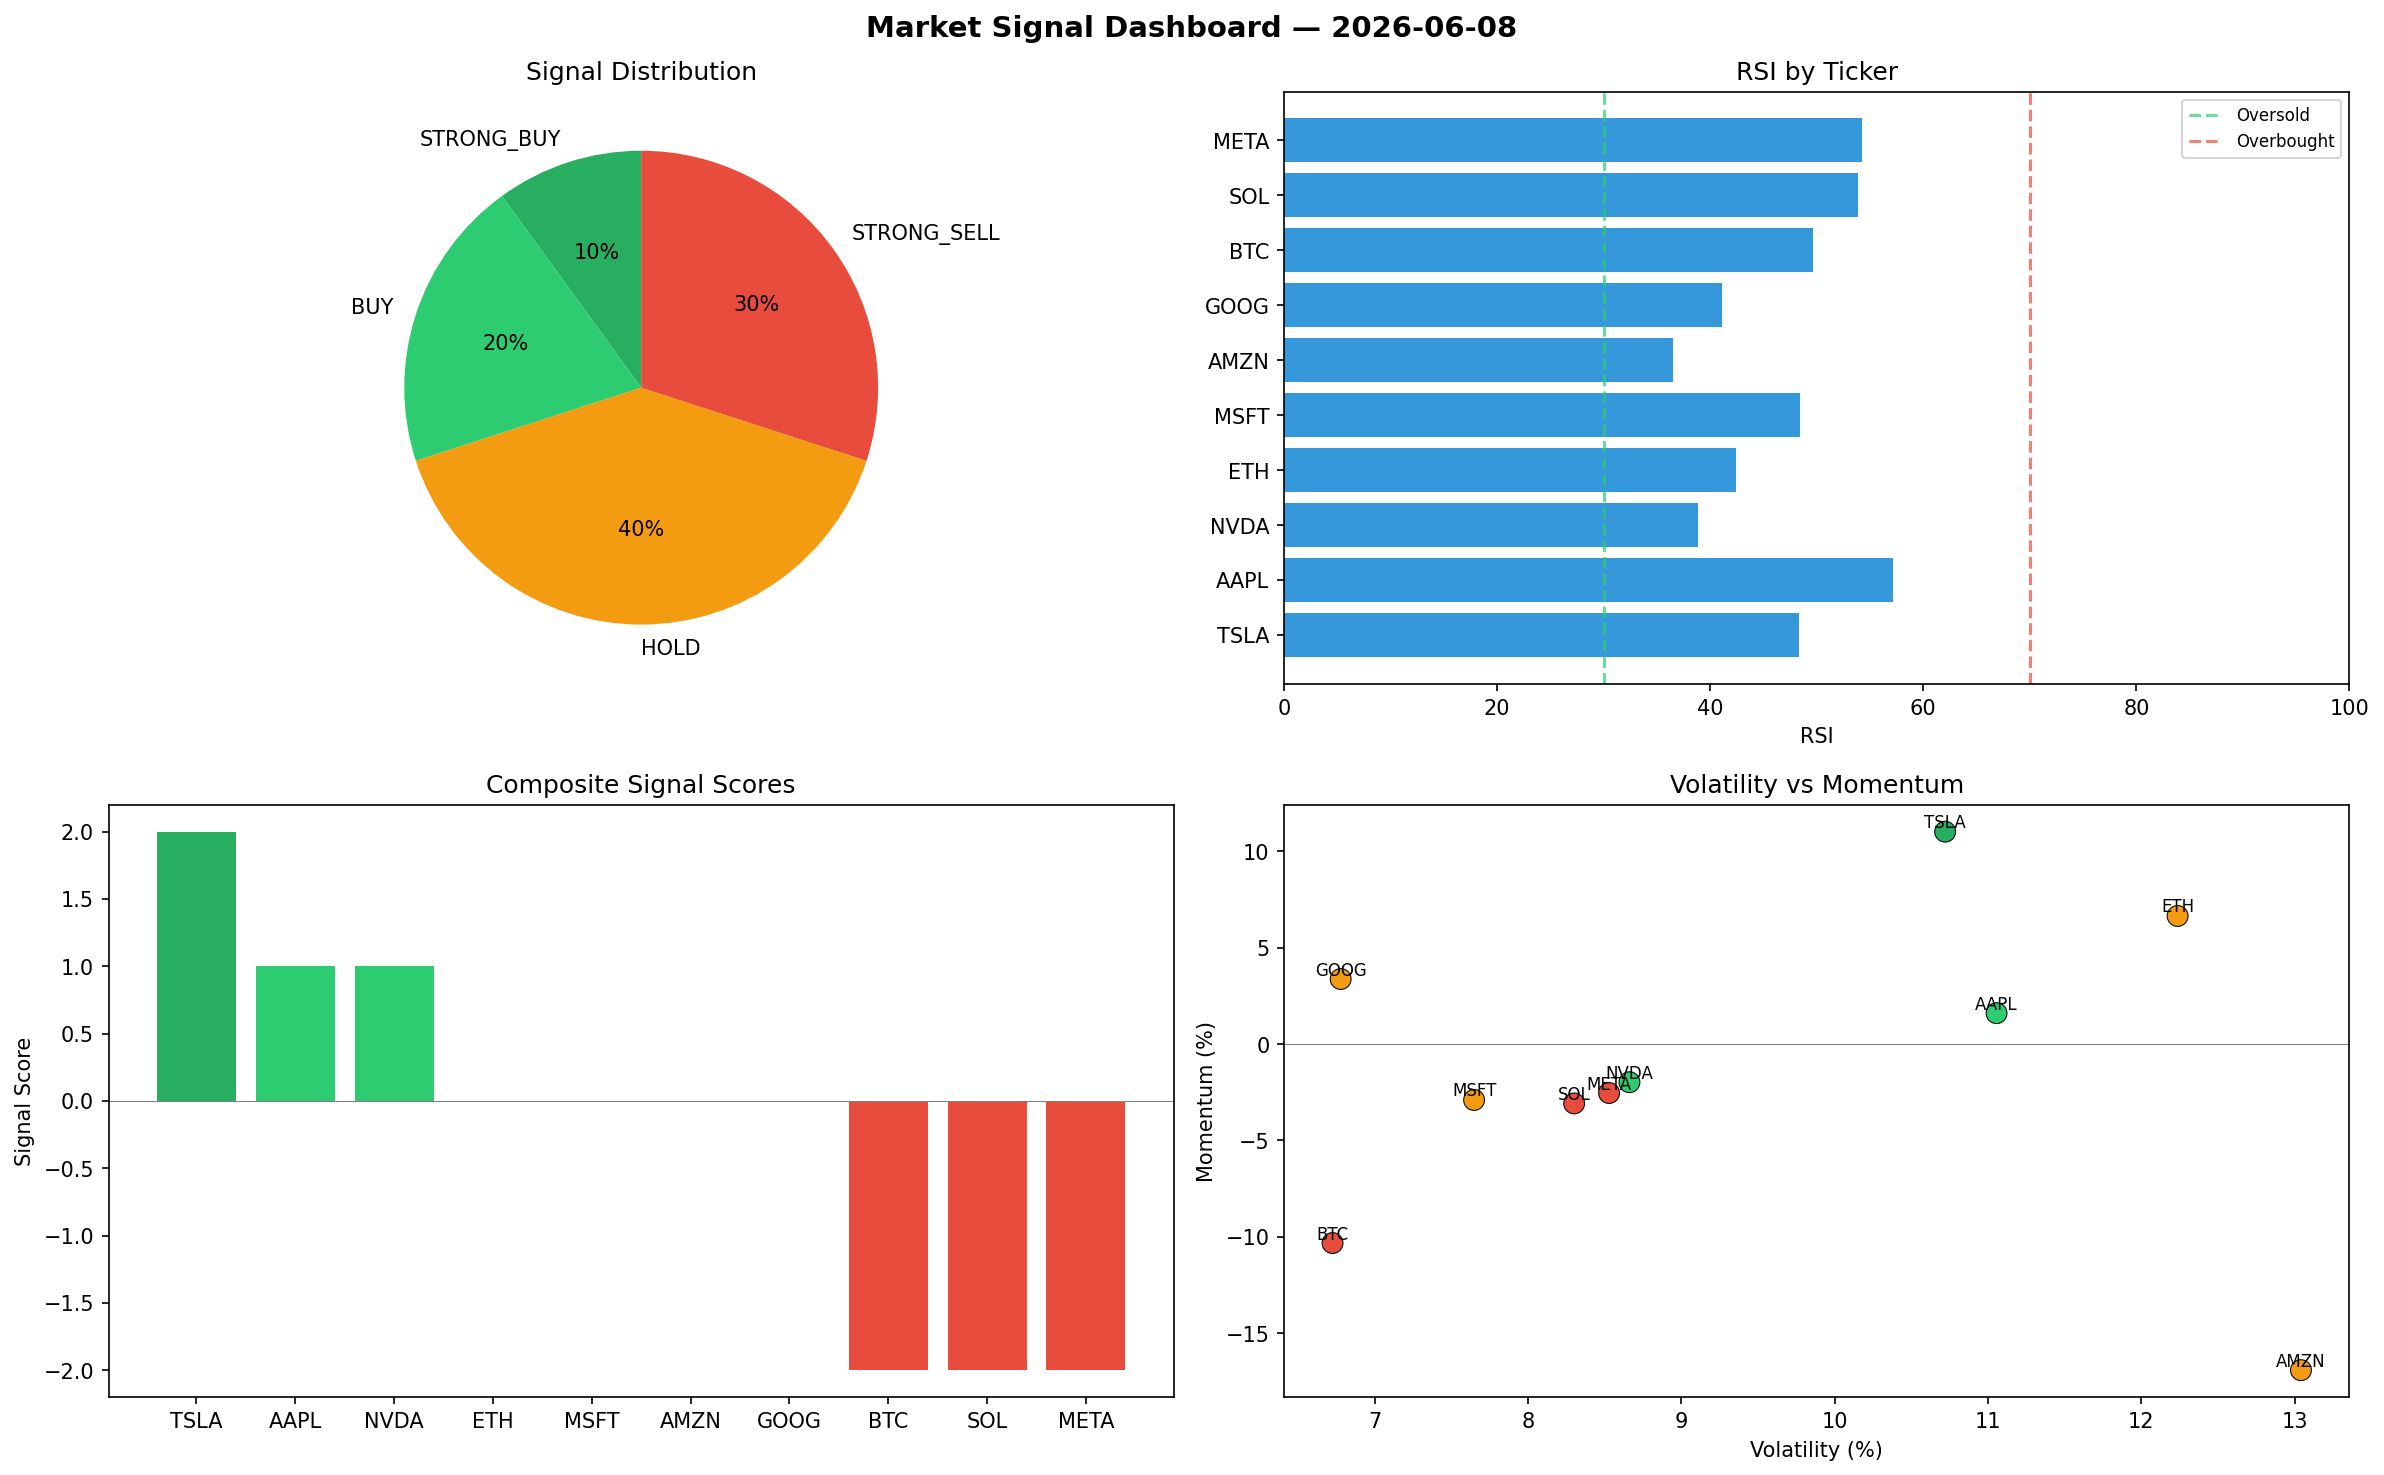
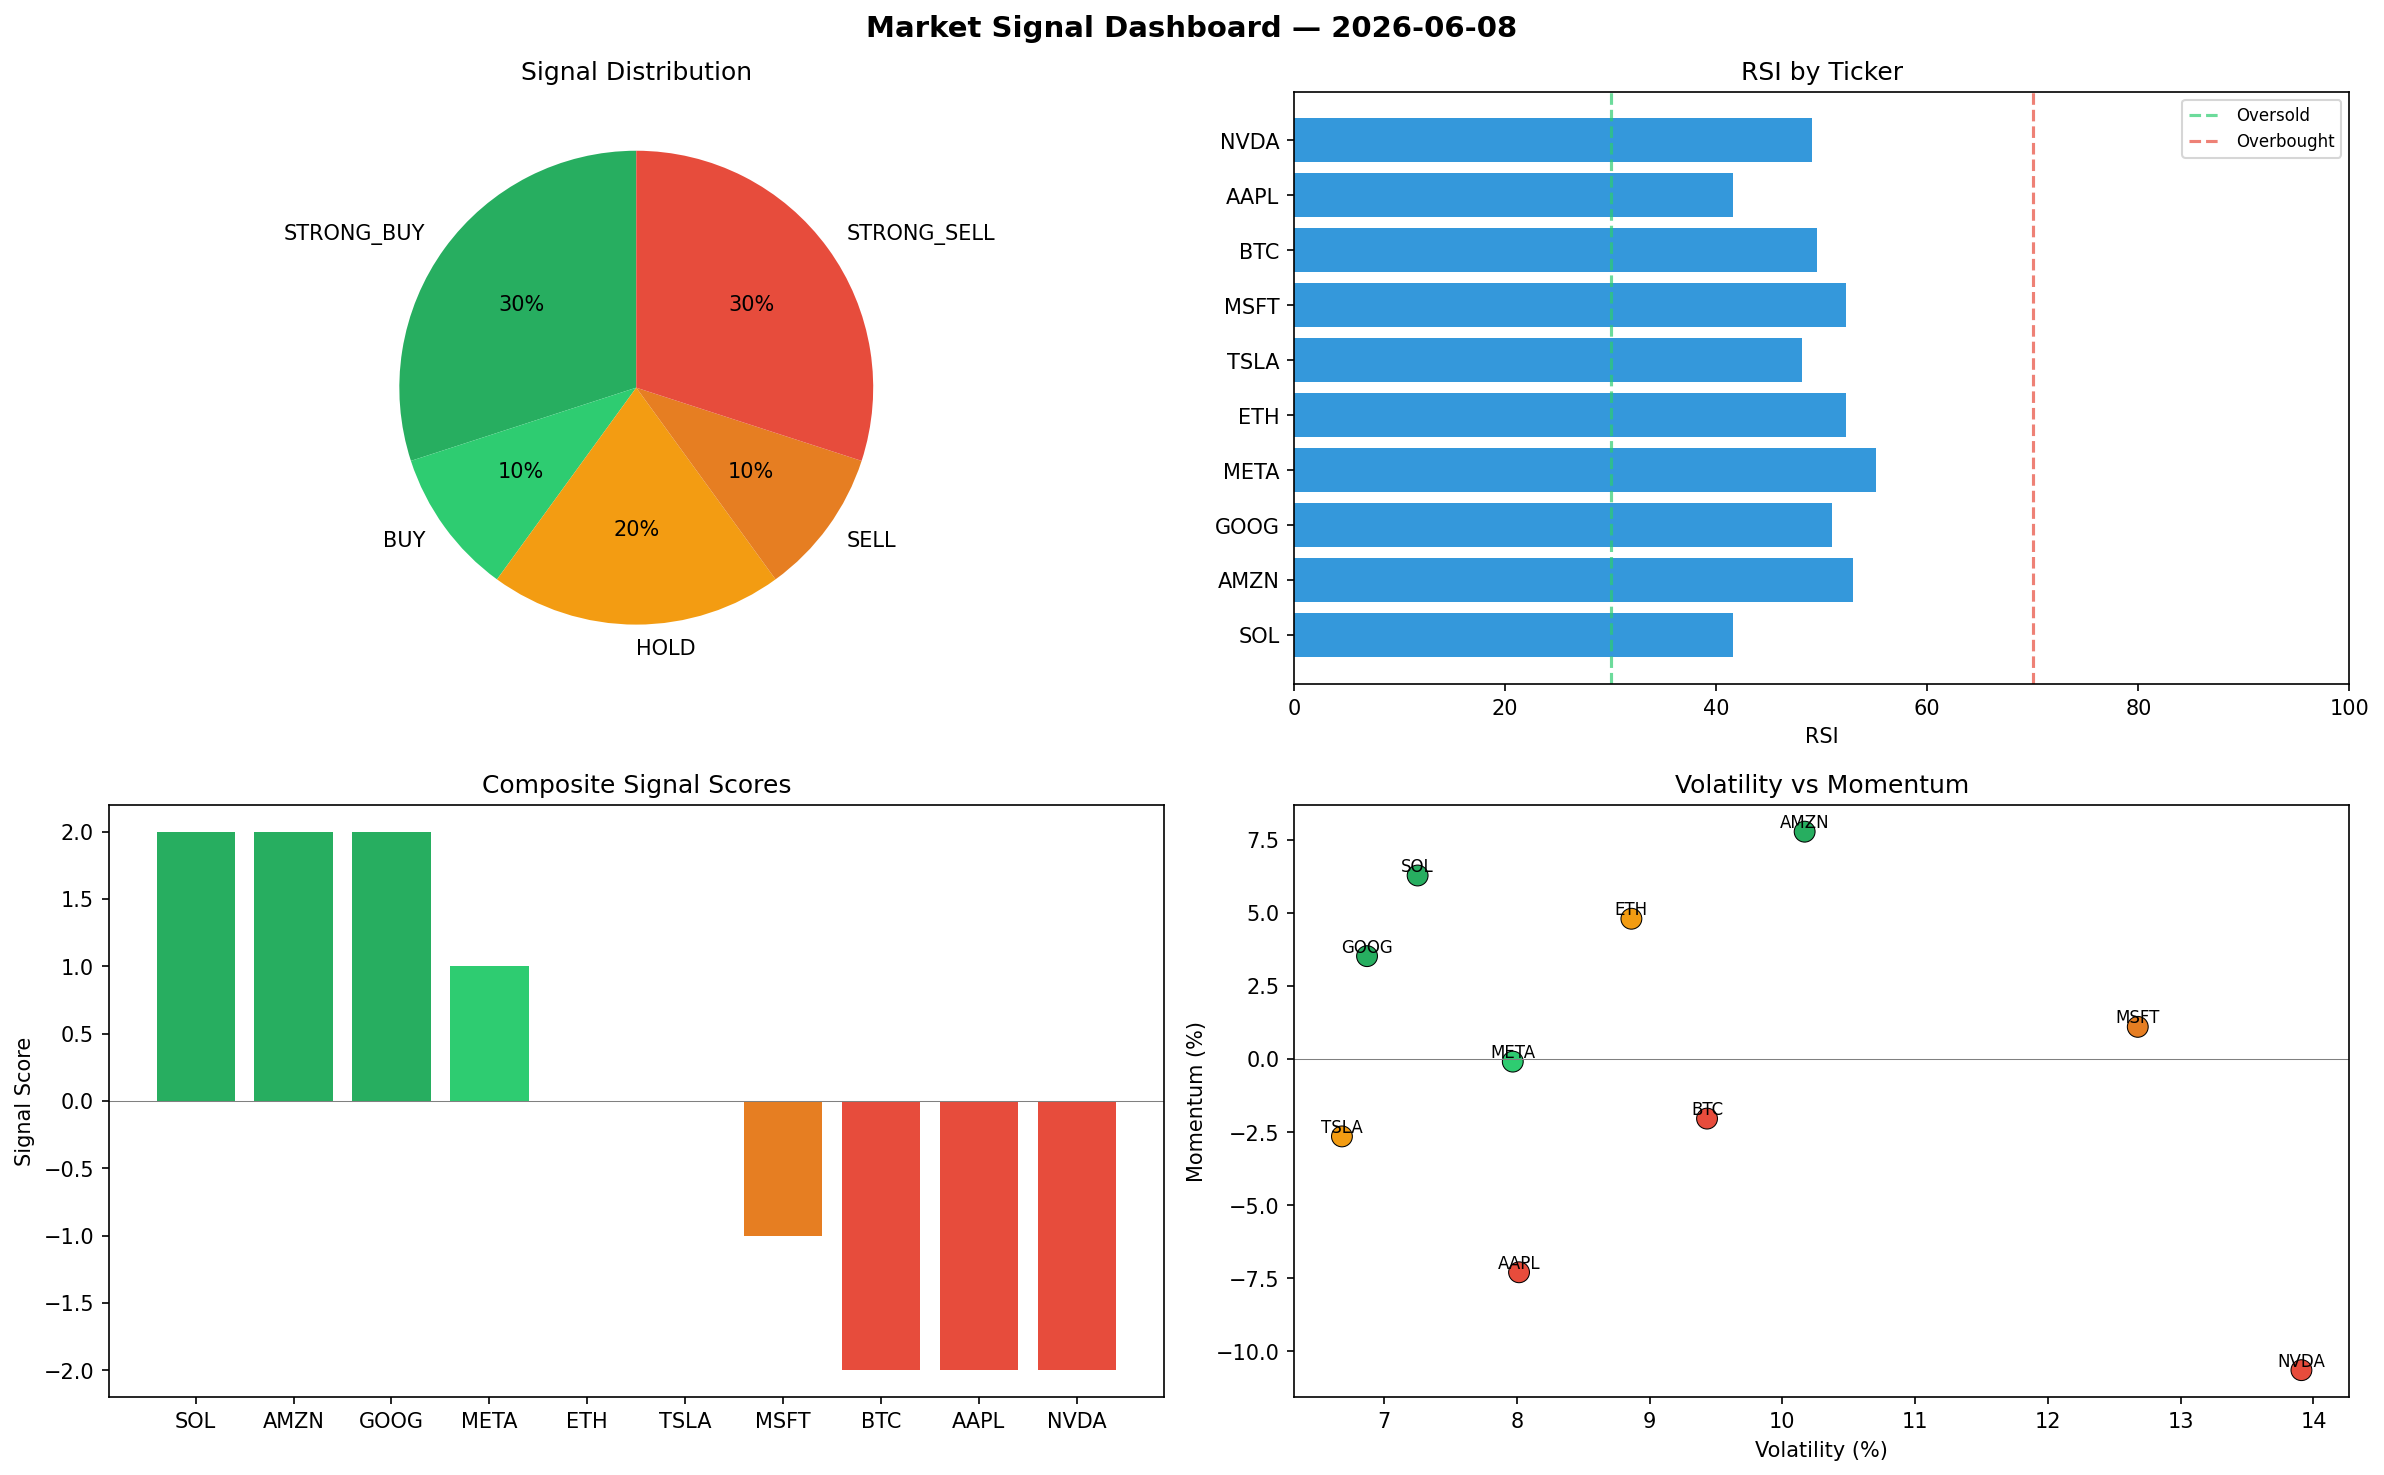
automated-bots: market signals 2026-06-08T12:44

diff --git a/logs/2026-06-08.md b/logs/2026-06-08.md
@@ -1,6 +1,6 @@
 # Market Signal Report — 2026-06-08
 
-**Run ID:** `203f7457c5` | **Buy:** 3 | **Sell:** 3 | **Hold:** 4
+**Run ID:** `e93084ac53` | **Buy:** 4 | **Sell:** 4 | **Hold:** 2
 
 ![Dashboard](2026-06-08_dashboard.png)
 
@@ -8,28 +8,28 @@
 
 | Ticker | Price | Signal | Score | RSI | Momentum | Confidence |
 |--------|-------|--------|-------|-----|----------|------------|
-| TSLA | $4447.46 | **STRONG_BUY** | 2 | 48.37 | 0.1101 | 0.5 |
-| AAPL | $1808.04 | **BUY** | 1 | 57.16 | 0.016 | 0.25 |
-| NVDA | $320.75 | **BUY** | 1 | 38.86 | -0.0198 | 0.25 |
-| ETH | $2711.09 | **HOLD** | 0 | 42.39 | 0.0664 | 0.0 |
-| MSFT | $2617.25 | **HOLD** | 0 | 48.38 | -0.029 | 0.0 |
-| AMZN | $336.74 | **HOLD** | 0 | 36.51 | -0.1691 | 0.0 |
-| GOOG | $2431.76 | **HOLD** | 0 | 41.08 | 0.0337 | 0.0 |
-| BTC | $194.14 | **STRONG_SELL** | -2 | 49.62 | -0.1032 | 0.5 |
-| SOL | $936.12 | **STRONG_SELL** | -2 | 53.87 | -0.0308 | 0.5 |
-| META | $2890.42 | **STRONG_SELL** | -2 | 54.2 | -0.0254 | 0.5 |
+| SOL | $2041.58 | **STRONG_BUY** | 2 | 41.62 | 0.0628 | 0.5 |
+| AMZN | $4206.8 | **STRONG_BUY** | 2 | 53.01 | 0.0778 | 0.5 |
+| GOOG | $2599.7 | **STRONG_BUY** | 2 | 50.93 | 0.0352 | 0.5 |
+| META | $2095.1 | **BUY** | 1 | 55.11 | -0.0009 | 0.25 |
+| ETH | $2067.96 | **HOLD** | 0 | 52.35 | 0.048 | 0.0 |
+| TSLA | $502.93 | **HOLD** | 0 | 48.14 | -0.0265 | 0.0 |
+| MSFT | $2775.9 | **SELL** | -1 | 52.29 | 0.011 | 0.25 |
+| BTC | $563.64 | **STRONG_SELL** | -2 | 49.53 | -0.0204 | 0.5 |
+| AAPL | $4679.24 | **STRONG_SELL** | -2 | 41.59 | -0.073 | 0.5 |
+| NVDA | $1434.24 | **STRONG_SELL** | -2 | 49.11 | -0.1065 | 0.5 |
 
 ## Delta vs Yesterday
 
 | Ticker | Today | Yesterday | Price Change | Signal Changed |
 |--------|-------|-----------|-------------|----------------|
-| TSLA | STRONG_BUY | STRONG_SELL | 📈 18.78% | ⚠ YES |
-| AAPL | BUY | SELL | 📉 -39.16% | ⚠ YES |
-| NVDA | BUY | STRONG_SELL | 📉 -17.3% | ⚠ YES |
-| ETH | HOLD | STRONG_BUY | 📉 -35.45% | ⚠ YES |
-| MSFT | HOLD | HOLD | 📉 -4.78% | — |
-| AMZN | HOLD | HOLD | 📉 -90.84% | — |
-| GOOG | HOLD | STRONG_BUY | 📈 2.42% | ⚠ YES |
-| BTC | STRONG_SELL | STRONG_BUY | 📉 -95.83% | ⚠ YES |
-| SOL | STRONG_SELL | BUY | 📉 -68.16% | ⚠ YES |
-| META | STRONG_SELL | BUY | 📉 -33.75% | ⚠ YES |
+| SOL | STRONG_BUY | BUY | 📉 -30.55% | ⚠ YES |
+| AMZN | STRONG_BUY | HOLD | 📈 14.46% | ⚠ YES |
+| GOOG | STRONG_BUY | STRONG_BUY | 📈 9.5% | — |
+| META | BUY | BUY | 📉 -51.98% | — |
+| ETH | HOLD | STRONG_BUY | 📉 -50.77% | ⚠ YES |
+| TSLA | HOLD | STRONG_SELL | 📉 -86.57% | ⚠ YES |
+| MSFT | SELL | HOLD | 📈 0.99% | ⚠ YES |
+| BTC | STRONG_SELL | STRONG_BUY | 📉 -87.88% | ⚠ YES |
+| AAPL | STRONG_SELL | SELL | 📈 57.45% | ⚠ YES |
+| NVDA | STRONG_SELL | STRONG_SELL | 📈 269.8% | — |
